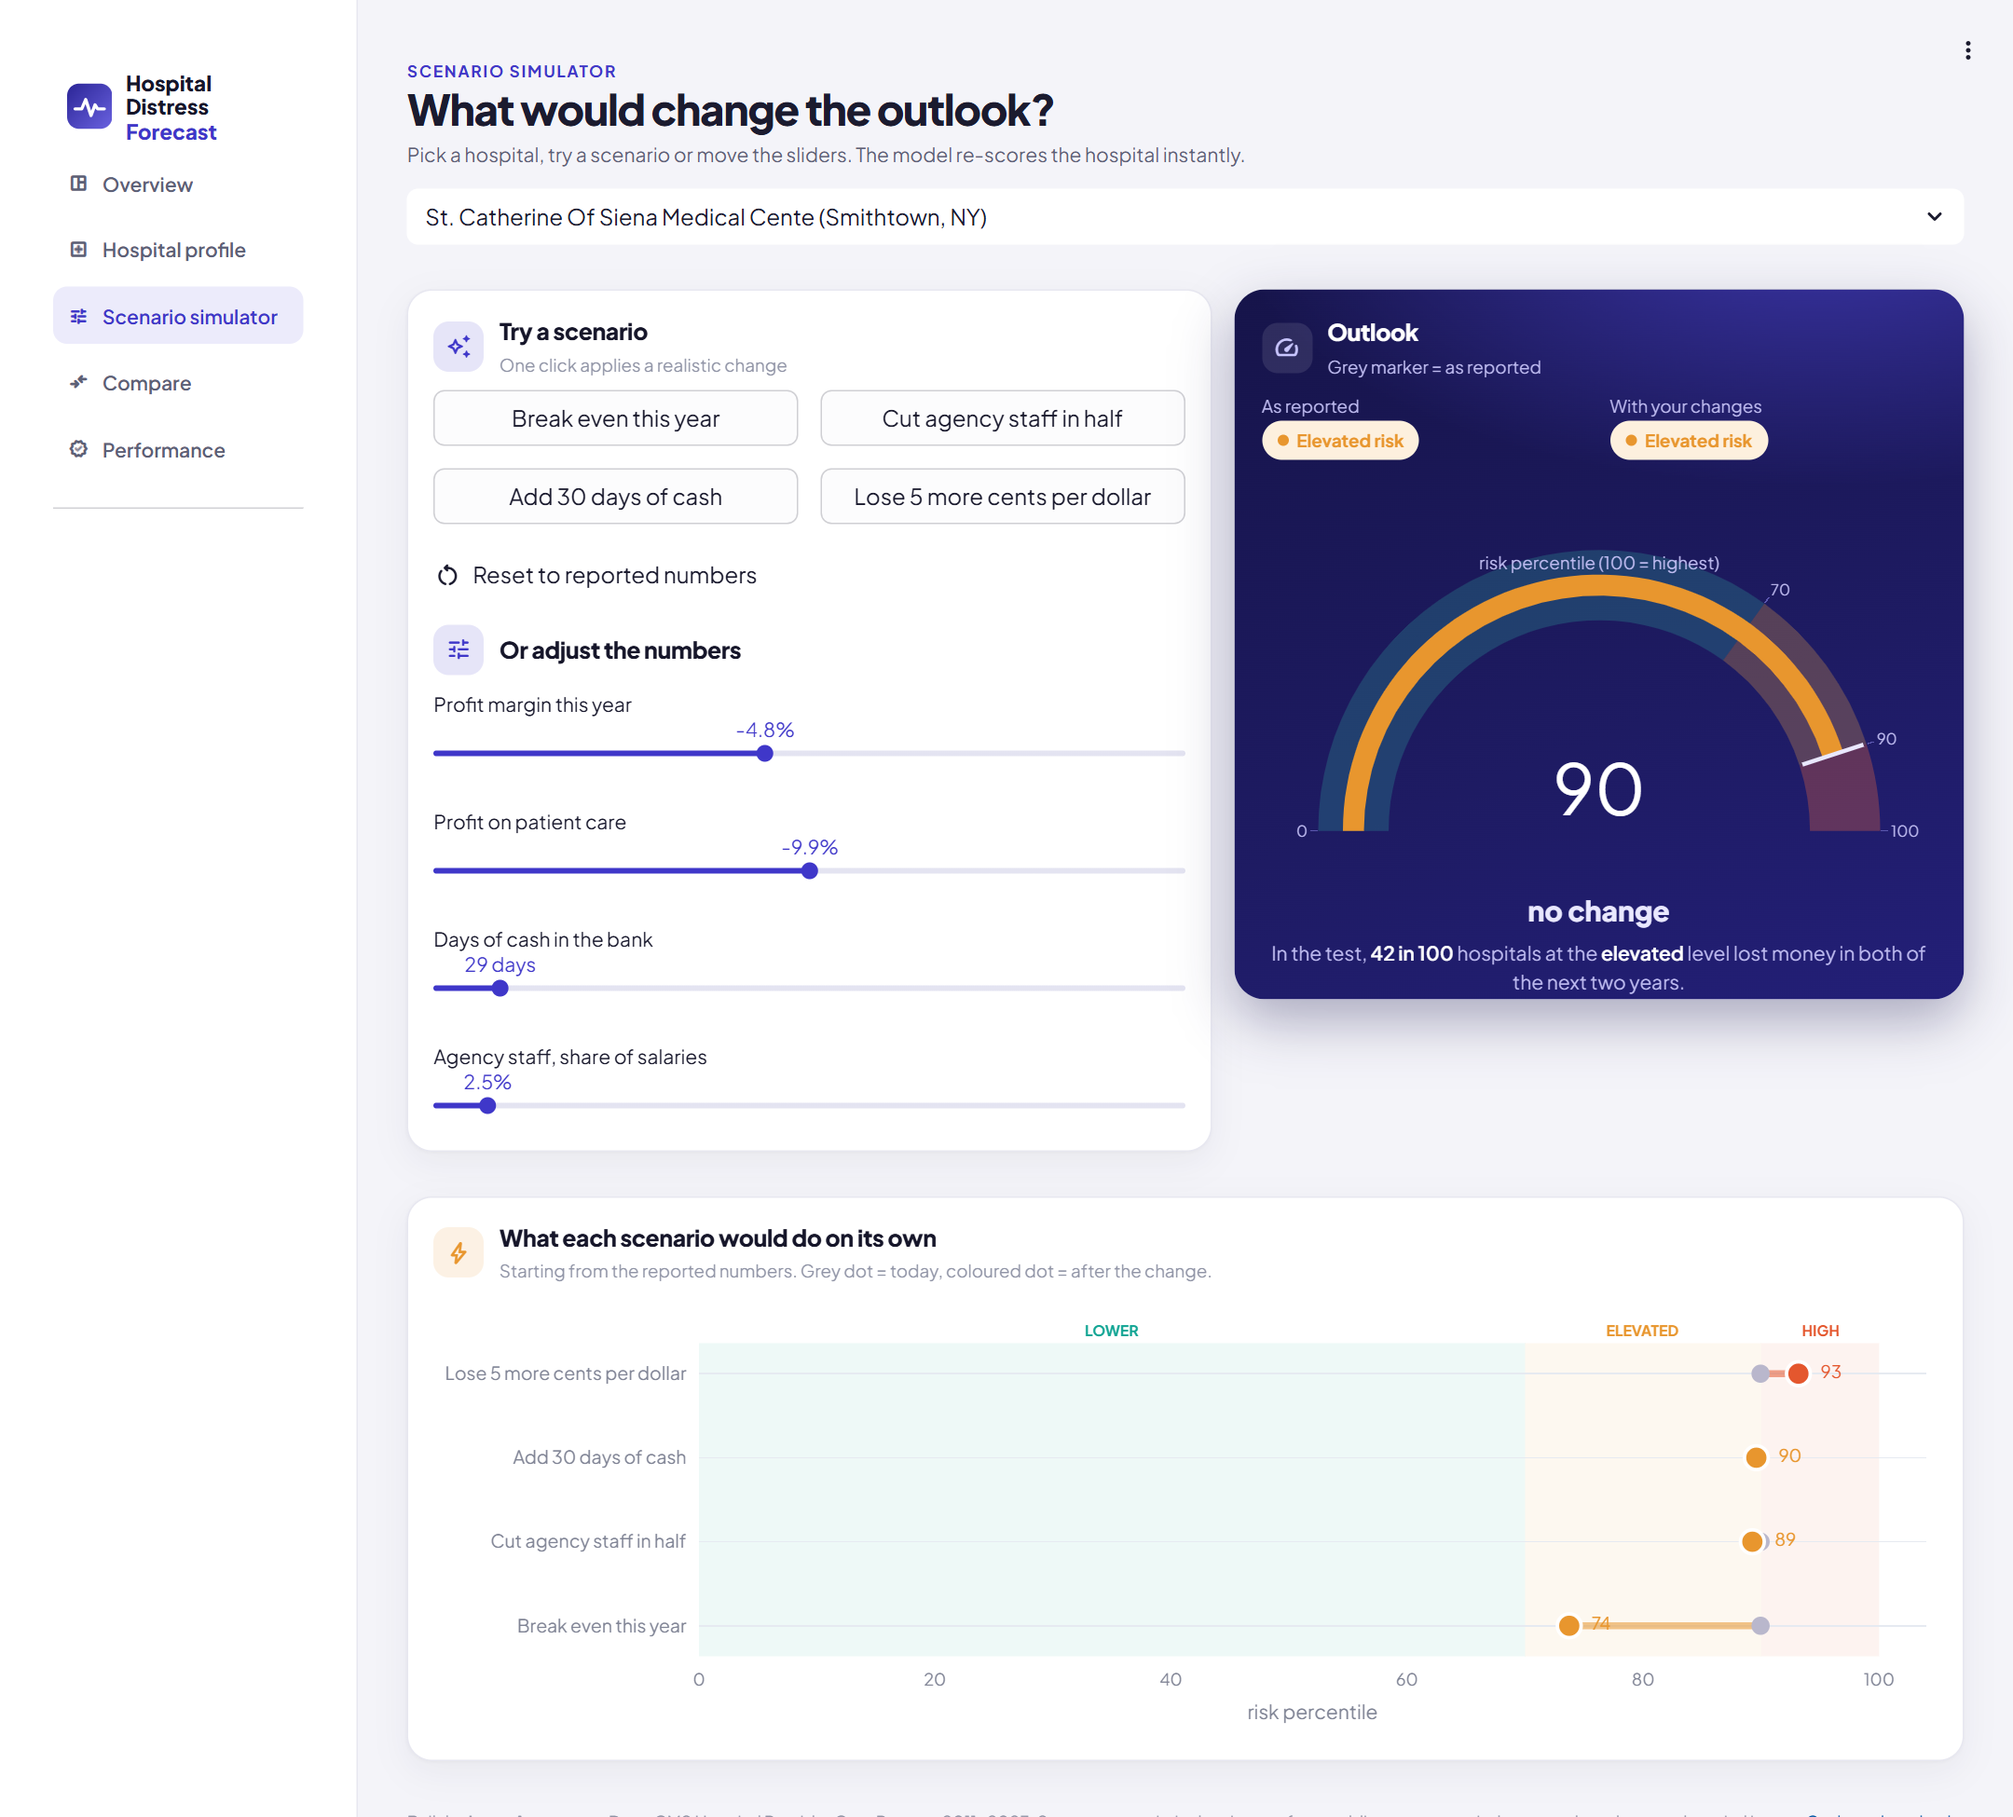
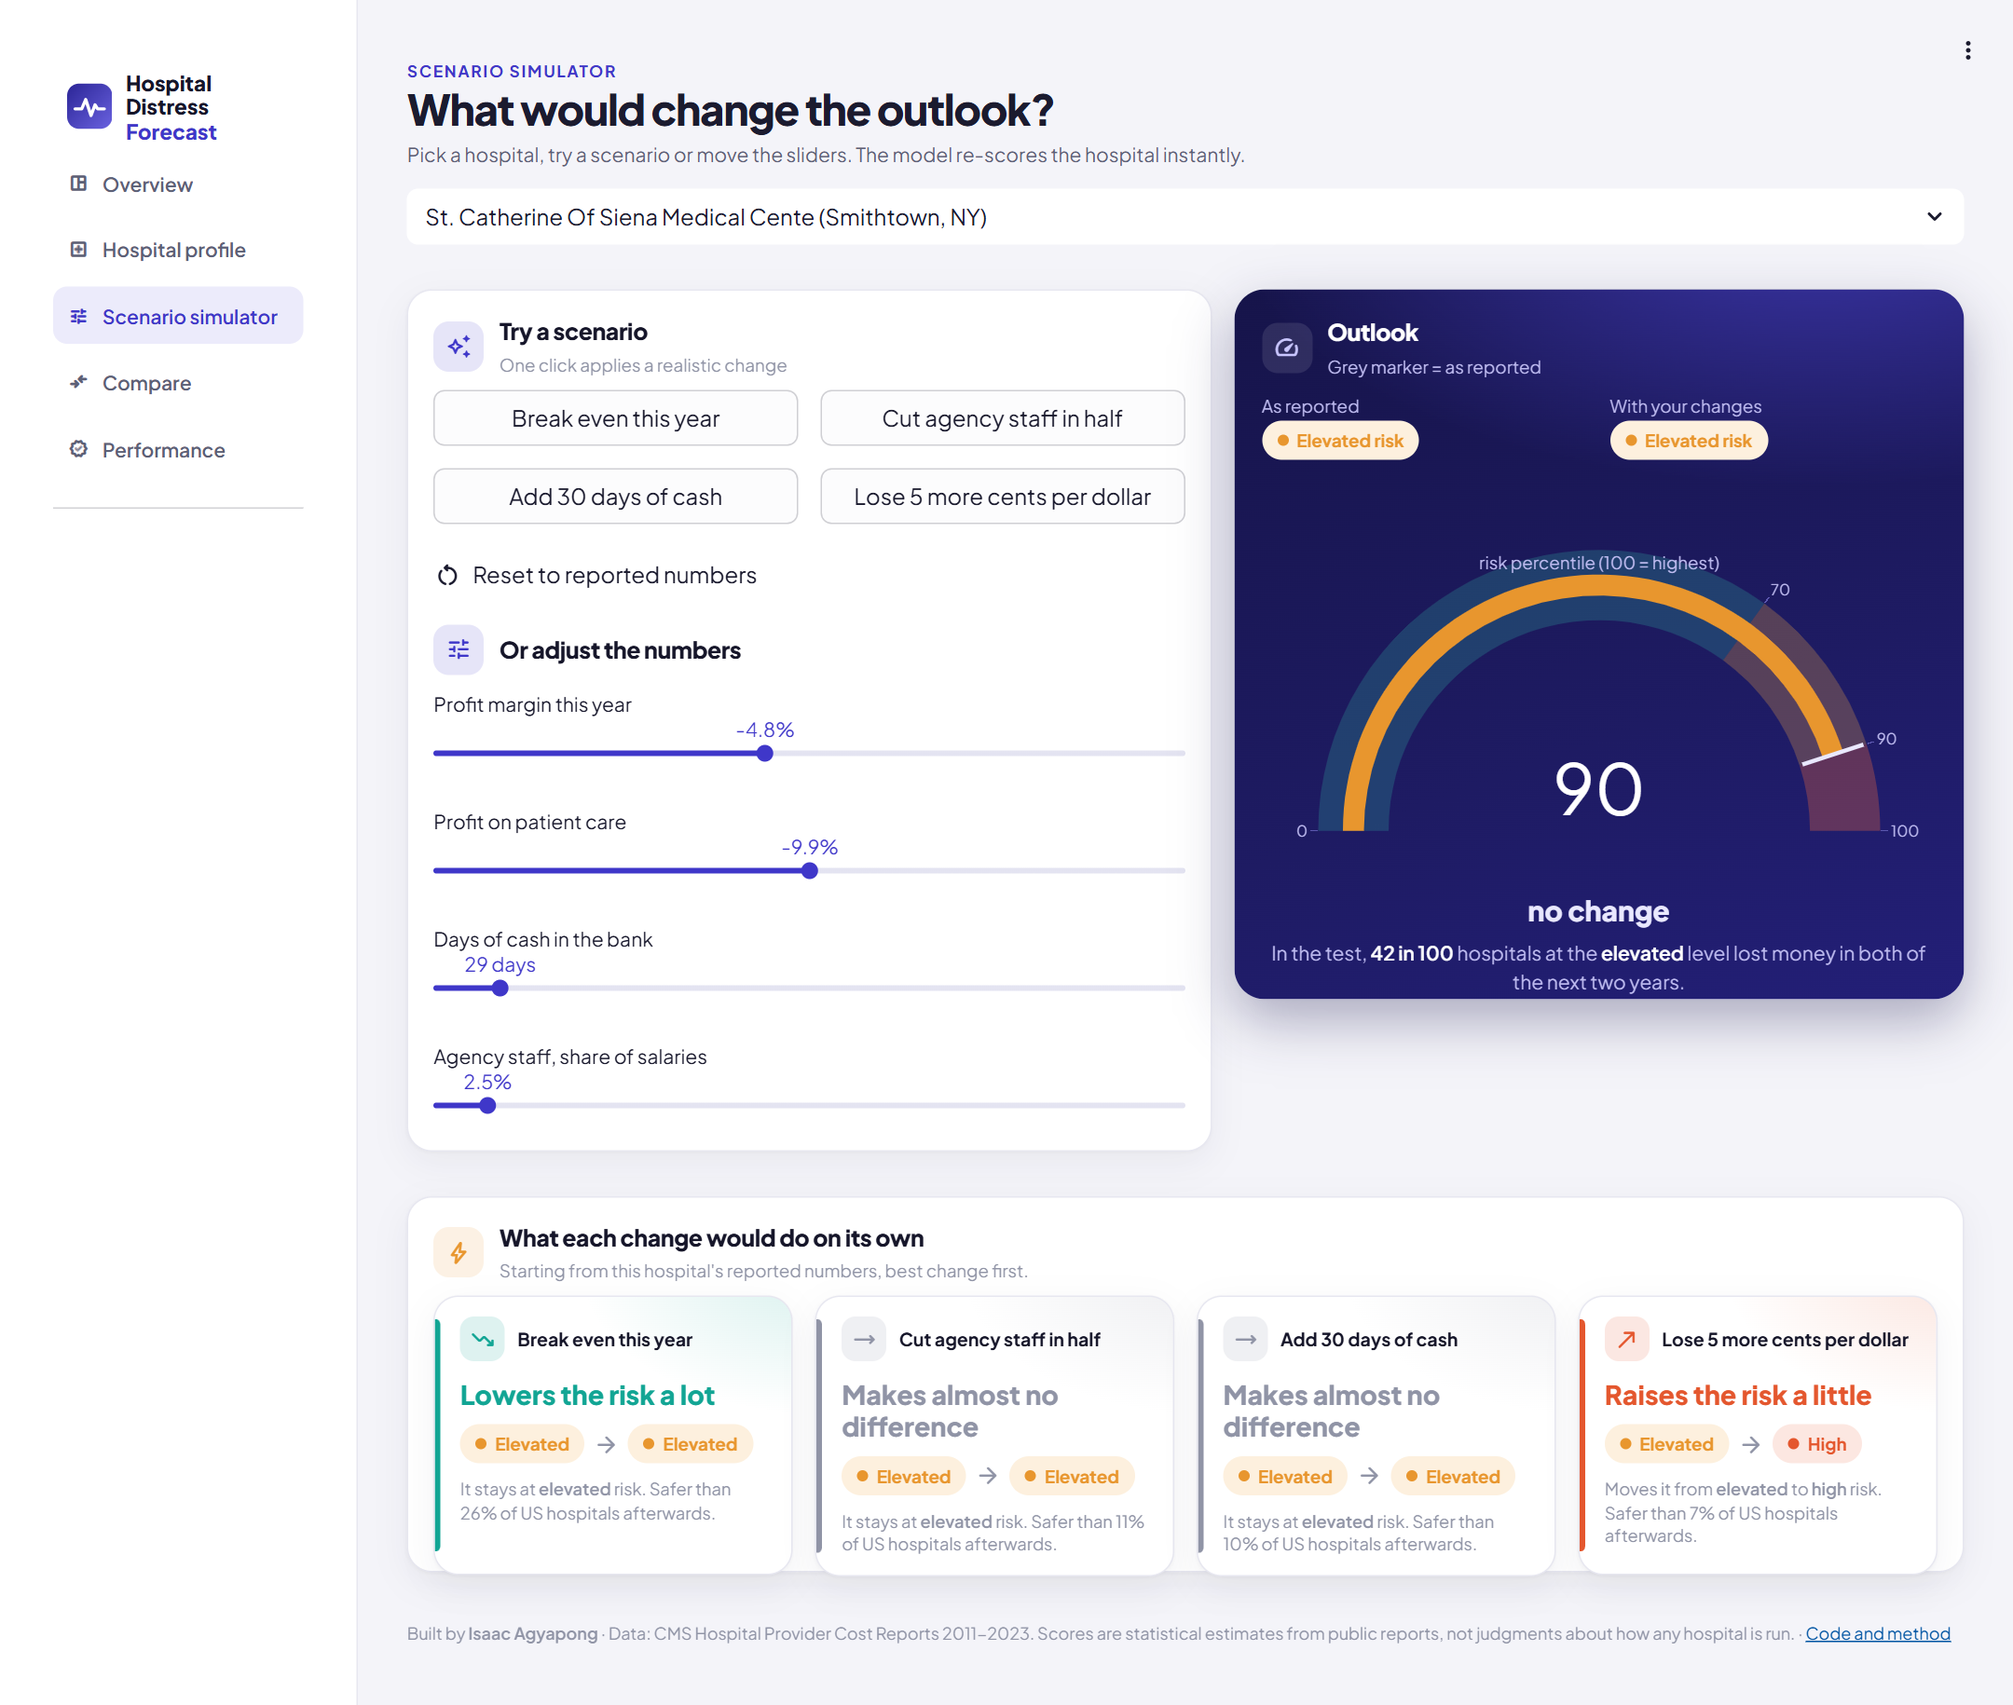
Simulator: plain-language scenario cards instead of the percentile chart

diff --git a/app/app.py b/app/app.py
@@ -860,8 +860,8 @@ def simulator():
             <b>{la.lower()}</b> level lost money in both of the next two years.</div><div style="height:6px"></div>""")
     st.write("")
     with card("impact"):
-        section("bolt", "What each scenario would do on its own",
-                "Starting from the reported numbers. Grey dot = today, coloured dot = after the change.", AMBER)
+        section("bolt", "What each change would do on its own",
+                "Starting from this hospital's reported numbers, best change first.", AMBER)
         rows = []
         for name, fn in SCENARIOS.items():
             r = dict(base, **fn(base))
@@ -870,28 +870,36 @@ def simulator():
                 r["loss_streak"] = 0
             if pd.notna(base["margin_last_year"]):
                 r["margin_change"] = r["total_margin"] - base["margin_last_year"]
-            rows.append((name, percentile_of(predict(r))))
+            rows.append((name, predict(r)))
         rows.sort(key=lambda x: x[1])
-        fig = go.Figure()
-        for x0, x1, L in [(0, 70, "Lower"), (70, 90, "Elevated"), (90, 100, "High")]:
-            fig.add_vrect(x0=x0, x1=x1, fillcolor=LEVEL_COLOUR[L], opacity=0.07, line_width=0, layer="below")
-            fig.add_annotation(x=(x0 + x1) / 2, y=1.08, yref="paper", text=f"<b>{L.upper()}</b>", showarrow=False,
-                               font=dict(size=10.5, color=LEVEL_COLOUR[L]))
-        for name, p in rows:
-            col = LEVEL_COLOUR[level_of(SCORES.risk.quantile(p / 100))] if p > 0 else TEAL
-            fig.add_scatter(x=[pb, p], y=[name, name], mode="lines", line=dict(color=col, width=5), opacity=0.55,
-                            showlegend=False, hoverinfo="skip")
-            fig.add_scatter(x=[pb], y=[name], mode="markers", marker=dict(size=13, color="#B9B7CC"), showlegend=False,
-                            hovertemplate=f"today: {pb:.0f}<extra></extra>")
-            fig.add_scatter(x=[p], y=[name], mode="markers+text", text=[f"  {p:.0f}"], textposition="middle right",
-                            textfont=dict(size=12.5, color=col), showlegend=False,
-                            marker=dict(size=17, color=col, line=dict(color="white", width=2.5)),
-                            hovertemplate=f"{name}: {p:.0f}<extra></extra>")
-        fig.update_xaxes(range=[0, 104], title="risk percentile", gridcolor=LINE, zeroline=False)
-        fig.update_yaxes(tickfont=dict(size=13))
-        fig = styled(fig, 320)
-        fig.update_layout(margin=dict(l=8, r=8, t=34, b=8))
-        plot(fig)
+        cols = st.columns(len(rows))
+        for i, (col, (name, risk)) in enumerate(zip(cols, rows)):
+            d = percentile_of(risk) - pb
+            lvl = level_of(risk)
+            if d <= -10:
+                verdict, icon, colour = "Lowers the risk a lot", "trending_down", TEAL
+            elif d <= -2:
+                verdict, icon, colour = "Lowers the risk a little", "south_east", TEAL
+            elif d < 2:
+                verdict, icon, colour = "Makes almost no difference", "trending_flat", INK_3
+            elif d < 10:
+                verdict, icon, colour = "Raises the risk a little", "north_east", CORAL
+            else:
+                verdict, icon, colour = "Raises the risk a lot", "trending_up", CORAL
+            if lvl != lb:
+                note = f"Moves it from <b>{lb.lower()}</b> to <b>{lvl.lower()}</b> risk."
+            else:
+                note = f"It stays at <b>{lb.lower()}</b> risk."
+            safer = 100 - percentile_of(risk)
+            with col:
+                html(f"""<div class="kpi2" style="--c:{colour};height:auto;min-height:200px;animation-delay:{0.07 * i:.2f}s">
+                    <div class="kpi2-top"><span class="kpi2-icon"><span class="msym">{icon}</span></span>
+                    <span class="kpi2-lab" style="color:{INK}">{name}</span></div>
+                    <div style="font-size:19px;font-weight:800;color:{colour};margin:12px 0 10px 0;line-height:1.2">{verdict}</div>
+                    <div style="display:flex;align-items:center;gap:6px;flex-wrap:wrap">{badge(lb, lb)}
+                    <span class="msym" style="color:{INK_3}">arrow_forward</span>{badge(lvl, lvl)}</div>
+                    <div class="kpi2-ctx" style="margin-top:10px">{note} Safer than {safer:.0f}% of US hospitals
+                    afterwards.</div></div>""")
     footer()
 
 
